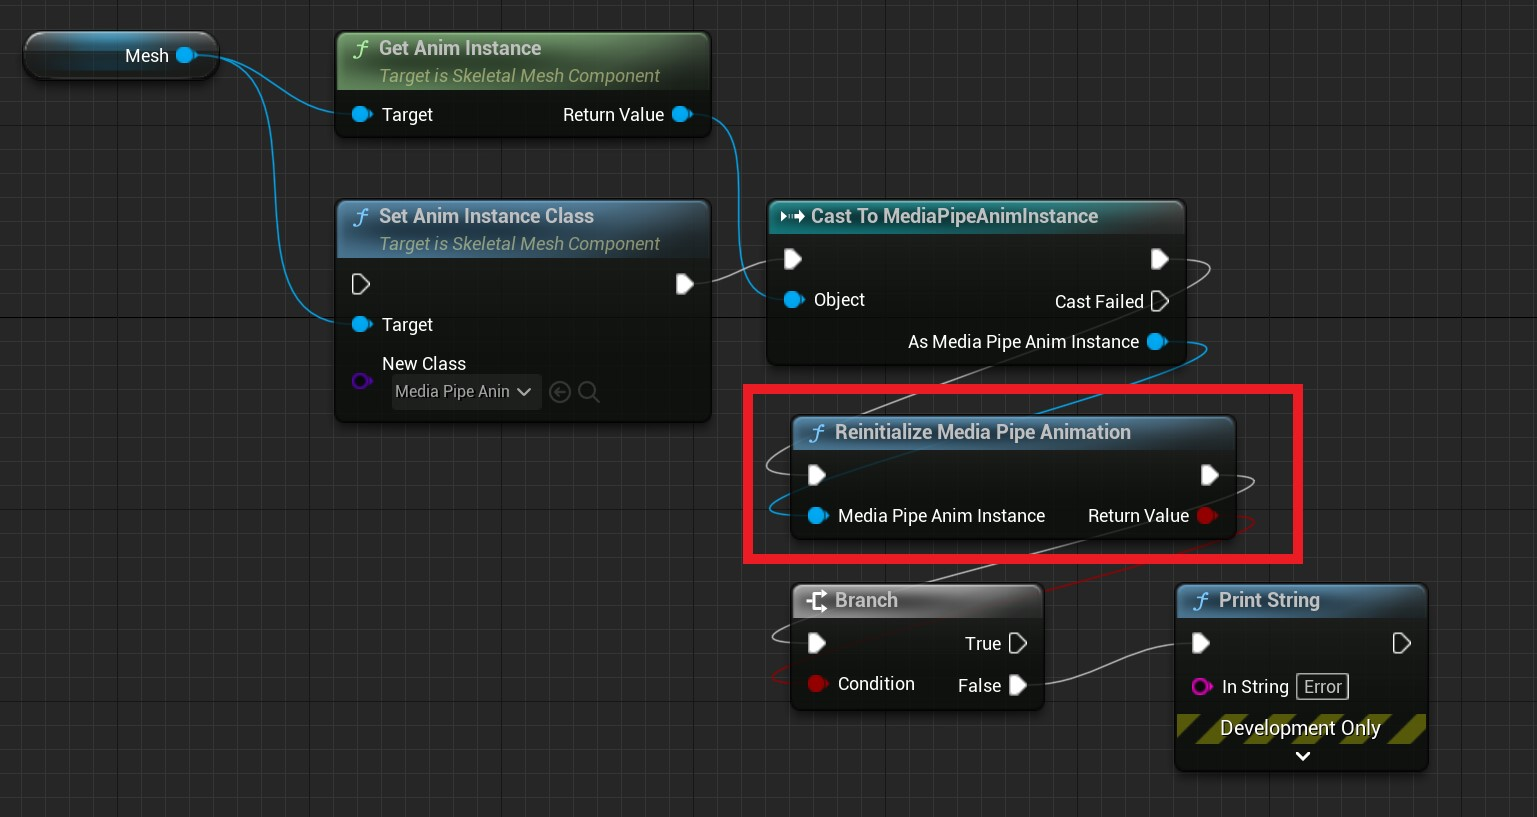
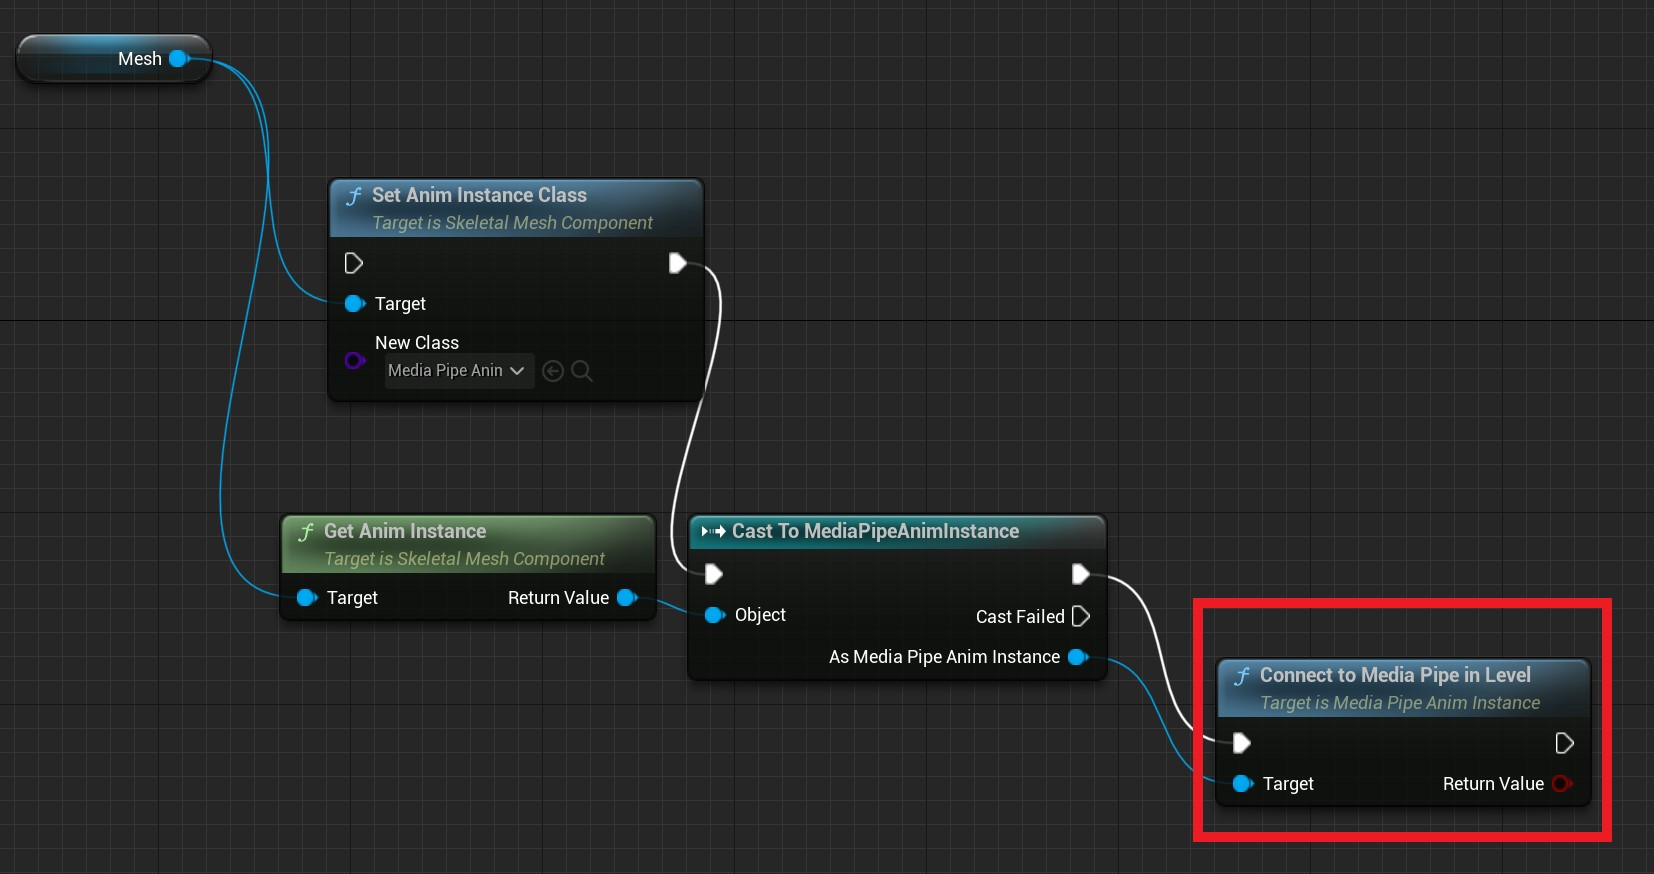
add document

Changed region(s): [[0.0, 0.0306, 0.9993, 0.9792], [0.1249, 0.3366, 0.1561, 0.3978]]

diff --git a/docs/advance/mediapipe_holistic_component.md b/docs/advance/mediapipe_holistic_component.md
@@ -1,0 +1,81 @@
+---
+sort: 1
+---
+
+# MediaPipeHolisticComponent
+
+Google mediapipe 将 Pose, Hand, Face 地标融合到一个同一个的计算器 holistic 中，**MediaPipe4U** 将这个计算器封装成 UnrealEngine 组件，
+公开了 google 几乎所有的图形（graph）参数，它是整个 **MediaPipe4U** 的核心组件，也是动作、表情、手指捕捉的数据来源, 同时，它也是 **MediaPipe4U**
+的启动器，整个动补过程都由它发起。
+
+[![MediaPipe4U](./images/holistic.gif "MediaPipe4U")](./images/holistic.gif)
+
+>有关 google mediapipe holistic 详细信息，请访问这里：   
+>(https://google.github.io/mediapipe/solutions/holistic.html)[https://google.github.io/mediapipe/solutions/holistic.html]
+
+## 限制
+
+由于 **MediaPipeHolisticComponent** 的特殊性，你应该保证整个场景中只有唯一个 **MediaPipeHolisticComponent** 实例。
+
+## Google MediaPipe 参数
+
+**MediaPipeHolisticComponent** 通过 **Options** 变量暴露 google mediapipe 的原始参数。
+
+|参数名|类型| 说明|
+|------|----|----|
+|InputAngle|enum|它可以控制让 mediapipe 来旋转图像，不建议使用，因为这回造成和原始图像不一致，优先在 **ImageSource** 上处理图像|
+|InputVerticallyFlipped|bool|让 mediapipe 垂直翻转，不建议使用，因为这回造成和原始图像不一致，优先在 **ImageSource** 上处理图像|
+|InputVerticallyFlipped|bool|让 mediapipe 水平翻转，不建议使用，因为这回造成和原始图像不一致，优先在 **ImageSource** 上处理图像|
+|ModelComplexity| enum |mediapipe 提供的模型复杂度，Lite, Full, Heavy，一般设置为 Full 即可|
+|SmoothLandmarks| bool | 是否平滑地标，这回影响计算结果，默认为 **true**|
+|EnableSegmentation| bool | 是否分割背景，默认为 **false**，不建议开启，会耗费性能|
+|SmoothSegmentation| bool | 分割背景时边缘平滑，默认为 **false**，不建议开启，会耗费性能|
+|UsePrevLandmarks| bool | 是否使用上一帧数据优化动补，这个参数由 MediaPipe4U 自动根据环境修改，程序无需关心|
+
+## 控制参数
+
+|参数名|类型| 说明|
+|------|----|----|
+|VideoDisplay| enum |图像回显的方式，**Raw** 显示原始图像，**Annotated** 带 MediaPipe 修饰线条的图像，注意，**Raw** 显示性能高于 **Annotated**|
+|MediaPipeSourceInfo|struct|这是一个只读的变量，你不应改修，获取当前图像源的信息，例如视频高度、宽度、是否是静态图片|
+|GraphTimeoutSeconds|int|MediaPipie 计算时图像帧的超时时间，关于这部分信息，请参看 mediapipe bound time 相关文档|
+
+## 生命周期回调
+
+**MediaPipeHolisticComponent** 提供了蓝图可用的生命周期事件（多播委托）
+
+|事件|说明|
+|------|----|
+|OnVideoTextureCreated|当回显的视频图像创建时回调该委托|
+|OnMediaPipeInitialized| 当 MediaPipe 完成初始化时回调该委托|
+|OnMediaPipeStarted| 当 MediaPipe 动补启动时回调该委托|
+|OnMediaPipeStopped| 当 MediaPipe 动补停止时回调该委托|
+|OnMediaPipeThreadFault| Mediapipe 工作线程发生错误时回调该委托|
+
+> 注意，**MediaPipeHolisticComponent** 的回调发生在任意线程，如果你需要游戏线程，需要自己切换。
+
+## 函数
+
+|函数|说明|
+|------|----|
+|StartCamera| 启动摄像头动补|
+|StartImageSource| 启动其他类型的图像源动补|
+|Stop| 停止动补 |
+|IsNativeImageSource| 指示当前图像源是一个 Native (普通 C++ 实现)图像源还是一个 UObject 图像源，为 **true** 表示 Native 图像源，反之，是一个 UObject 图像源，如果 MediaPipe 没有原型，会返回 false|
+|IsRunning| 用来判断 MediaPipe 是否已经启动 |
+|GetCurrentCameraParams| 获取当前正在运行的摄像头参数。注意：StartCamera传入的参数可能和此方法返回不一致，设备不支持传入的分辨率或帧率时会自动使用合适的参数打开摄像头 |
+
+## MediaPipe 原始数据 (C++)
+
+如果你希望获得 google mediapip 的原始数据，例如 Landmars, 你必须使用 C++ 编程，不支持蓝图。    
+你可以通过订阅事件 (Unreal Event) 来侦听来自 mediapipe 的原始数据
+
+|函数|说明|
+|----|-----|
+|PoseLandmarksEventTrigger| 获得 Pose 地标 | 
+|LeftHandLandmarksEventTrigger| 获得左手地标 | 
+|RightHandLandmarksEventTrigger| 获得右手地标 | 
+|FaceLandmarksEventTrigger| 获得 FaceMesh 地标 | 
+|PoseWorldLandmarksEventTrigger|获得 3D 化的 Pose 地标| 
+|FaceGeometryEventTrigger| 获得 FaceGeometry 数据（地标，顶点） |
+

diff --git a/docs/advance/switch_anim_blueprint.md b/docs/advance/switch_anim_blueprint.md
@@ -1,5 +1,5 @@
 ---
-sort: 3
+sort: 7
 ---
 
 # 切换动画蓝图
@@ -11,14 +11,16 @@ sort: 3
 [![蓝图操作](images/set_anim_instance_class.jpg "Shiprock")](images/set_anim_instance_class.jpg)   
 
 
-然后，当你切换到一个 **MediaPipeAnimInstace** 的蓝图时，你还需要初始化 MediaPipe 工作环境。    
+然后，当你切换到一个 **MediaPipeAnimInstace** 的蓝图时，你还需要将动画蓝图连接到 MediaPipe 。    
 
 ## 蓝图中切换动画蓝图
 
-在蓝图中你可以使用 **ReinitializeMediaPipeAnimation** 函数完成这个过程：
+在蓝图中你可以使用 **MediaPipeAnimInstace** 的 **ConnectToMediaPipeInLevel** 函数完成这个过程：
 
 
-[![蓝图操作](images/reinitailize_mediapipe_anim.jpg "Shiprock")](images/reinitailize_mediapipe_anim.jpg)   
+[![蓝图操作](images/reinitailize_mediapipe_anim.jpg "Shiprock")](images/reinitailize_mediapipe_anim.jpg)   、
+
+>注意: **ConnectToMediaPipeInLevel** 具有 bool 类型的返回值，用来指示连接 MediaPipe 是否成功
 
 ## C++ 中切换动画蓝图
 
@@ -31,7 +33,7 @@ Mesh->SetAnimInstanceClass(AnimInstanceClass);
 UAnimInstance* AnimInstance = Mesh->GetAnimInstance();
 if(UMediaPipeAnimInstance* MediaPipeAnimInstance = Cast<UMediaPipeAnimInstance>(AnimInstance))
 {
-    if(MediaPipeAnimInstance->ReInitialize())
+    if(MediaPipeAnimInstance->ConnectToMediaPipeInLevel())
     {
         // switch ok
     }

diff --git a/docs/advance/finger_correction.md b/docs/advance/finger_correction.md
@@ -1,0 +1,14 @@
+---
+sort: 5
+---
+
+# 手指矫正
+
+Coming soon
+
+视频教程：
+
+- [Bilibili](https://www.bilibili.com/video/BV1884y1V7kH) (中文)
+- [Youtube](https://youtu.be/HdHAauT45Ys) (English)   
+
+

diff --git a/docs/advance/mediapipe_anim_instance.md b/docs/advance/mediapipe_anim_instance.md
@@ -1,0 +1,7 @@
+---
+sort: 2
+---
+
+# MediaPipeAnimInstance
+
+Coming soon...

diff --git a/docs/advance/solver_bp.md b/docs/advance/solver_bp.md
@@ -1,5 +1,5 @@
 ---
-sort: 1
+sort: 3
 ---
 # 算解器 (蓝图)
 

diff --git a/docs/advance/solver_cpp.md b/docs/advance/solver_cpp.md
@@ -1,5 +1,5 @@
 ---
-sort: 2
+sort: 4
 ---
 # 算解器 (C++)
    

diff --git a/docs/advance/twist_correction.md b/docs/advance/twist_correction.md
@@ -1,5 +1,5 @@
 ---
-sort: 3
+sort: 5
 ---
 
 # 关节扭曲校正
